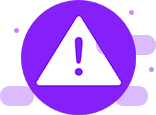
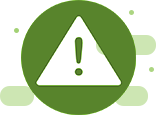
wip

diff --git a/assets/css/style.css b/assets/css/style.css
@@ -443,7 +443,7 @@ END Service Area
     bottom: 0;
     height: 2px;
     width: 130px;
-    background-color: #5a10fb;
+    background-color: #396a07;
     left: calc(50% - 65px);
 }
 
@@ -458,7 +458,7 @@ END Service Area
     bottom: -3px;
     height: 8px;
     width: 8px;
-    background-color: #5a10fb;
+    background-color: #396a07;
     left: calc(50% - 4px);
     -webkit-transform: rotate(45deg);
     -ms-transform: rotate(45deg);
@@ -637,7 +637,7 @@ END Achivement Area
 .screen-slider .owl-dots .owl-dot {
     height: 15px;
     width: 15px;
-    border: 1px solid #5a10fb;
+    border: 1px solid #396a07;
     border-radius: 50%;
     display: inline-block;
     margin: 0px 2px;
@@ -647,7 +647,7 @@ END Achivement Area
 }
 
 .screen-slider .owl-dots .active {
-    background-color: #5a10fb;
+    background-color: #396a07;
 }
 
 
@@ -666,7 +666,7 @@ END Screen Area
 
 .single-tst {
         text-align: center;
-    border: 2px solid #5a10fb;
+    border: 2px solid #396a07;
     border-radius: 10px;
     margin-top: 109px;
     padding: 0px 8%;
@@ -724,7 +724,7 @@ END Screen Area
 .testimonial-slider .owl-dots .owl-dot {
     height: 15px;
     width: 15px;
-    border: 1px solid #5a10fb;
+    border: 1px solid #396a07;
     border-radius: 50%;
     display: inline-block;
     margin: 0px 2px;
@@ -734,7 +734,7 @@ END Screen Area
 }
 
 .testimonial-slider .owl-dots .active {
-    background-color: #5a10fb;
+    background-color: #396a07;
 }
 
 
@@ -854,7 +854,7 @@ END Video Area
     box-shadow: 0px 3px 10px rgba(0,0,0,0.1);
 }
 .prc-head{
-        background: #5a10fb;
+        background: #396a07;
     text-align: center;
     padding: 40px;
 }
@@ -1039,7 +1039,7 @@ END Call To Action
     letter-spacing: 0;
 }
 .single-post h2 a:hover{
-    color: #5a10fb;
+    color: #396a07;
 }
 .single-post p{
     color: #555;
@@ -1089,7 +1089,7 @@ END Contact Area
 .contact-form #send{
     height: 45px;
     width: 150px;
-    background: #5a10fb;
+    background: #396a07;
     color: #fff;
     text-align: center;
     line-height: 45px;
@@ -1134,7 +1134,7 @@ END Contact Area
     height: 50px;
     width: 50px;
     border-radius: 50%;
-    background-color: #5a10fb;
+    background-color: #396a07;
     color: #fff;
     text-align: center;
     line-height: 50px;
@@ -1154,7 +1154,7 @@ END Contact Area
 .footer-area{
     height: 80px;
     text-align: center;
-    background-color: #5a10fb;
+    background-color: #396a07;
     display: flex;
     align-items: center;
 }
